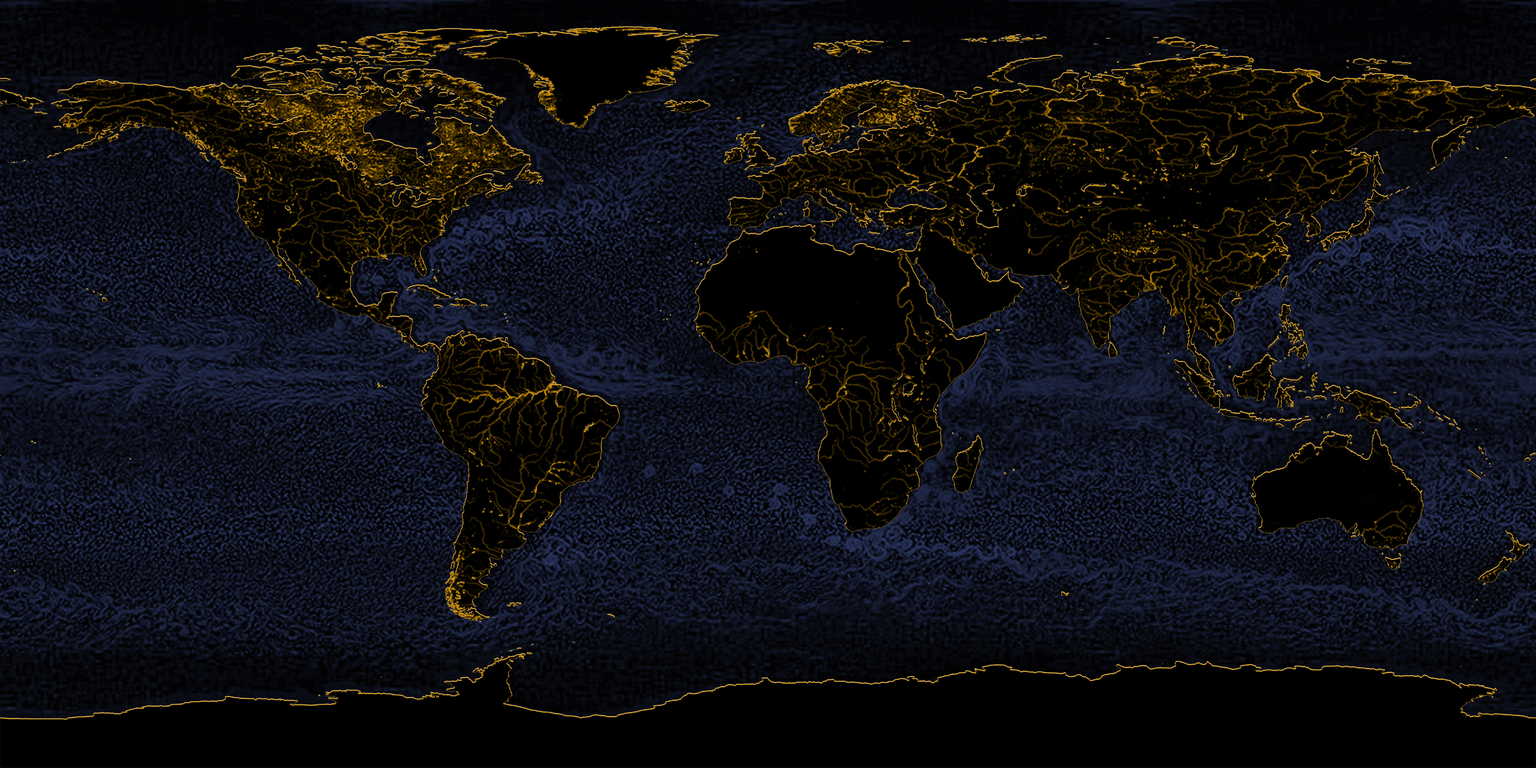
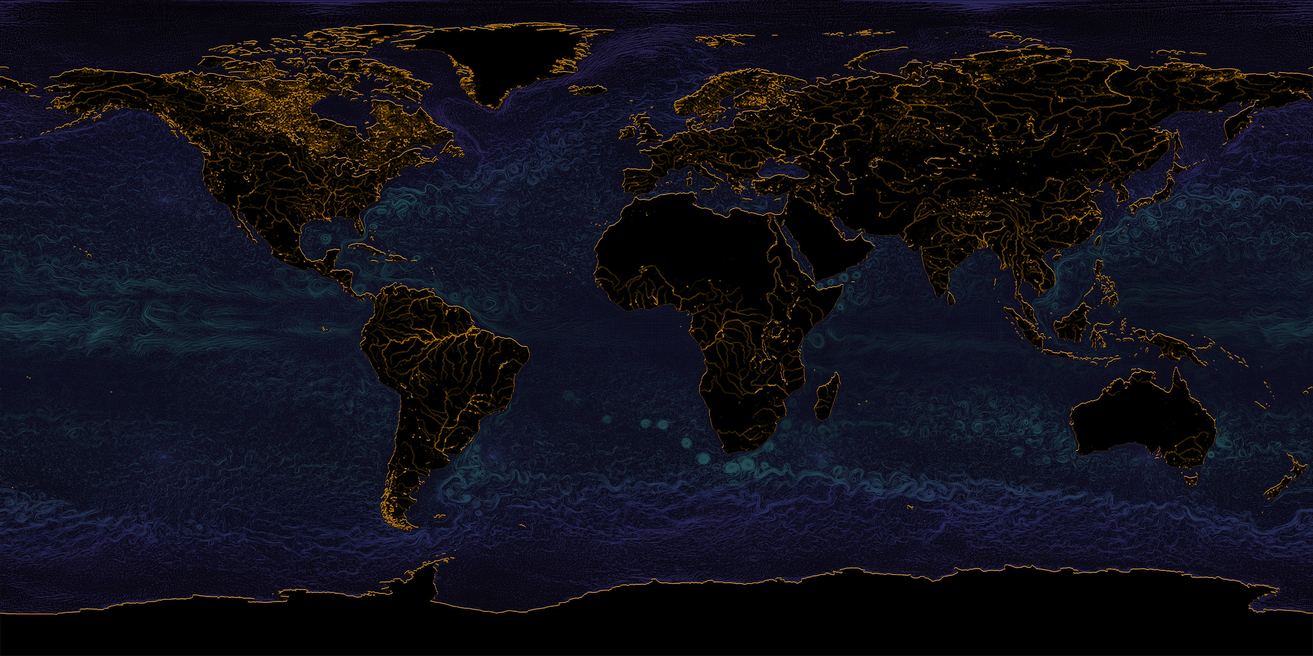
Update

Changed region(s): [[0.0, 0.0, 1.0, 0.9566]]

diff --git a/3/index.html b/3/index.html
@@ -72,7 +72,7 @@
                 pointLng="lon"
                 pointAltitude={0.1}
                 pointRadius={0.138}
-                pointColor={d => d["city-status"] ? "#70676A" : "#655384"}
+                pointColor={d => d["city-status"] ? "rgba(1, 223, 150, 0.75)" : "rgba(255, 255, 255, 0.5)"}
                 pointResolution={24}
                 pointLabel={getTooltip}
 
@@ -90,7 +90,7 @@
 
                 ringsData={[shieldRing]}
                 ringAltitude={0.1}
-                ringColor={() => "#3800e9"}
+                ringColor={() => "#01df96"}
                 ringMaxRadius={180}
                 ringPropagationSpeed={10}
                 ringRepeatPeriod={800}
@@ -105,7 +105,7 @@
                 pathColor={path => path.properties.color}
                 pathDashLength={0.1}
                 pathDashGap={0.008}
-                pathColor={() => "#485182"}
+                pathColor={() => "#30846d"}
                 pathDashAnimateTime={12000}
             />;
         };
